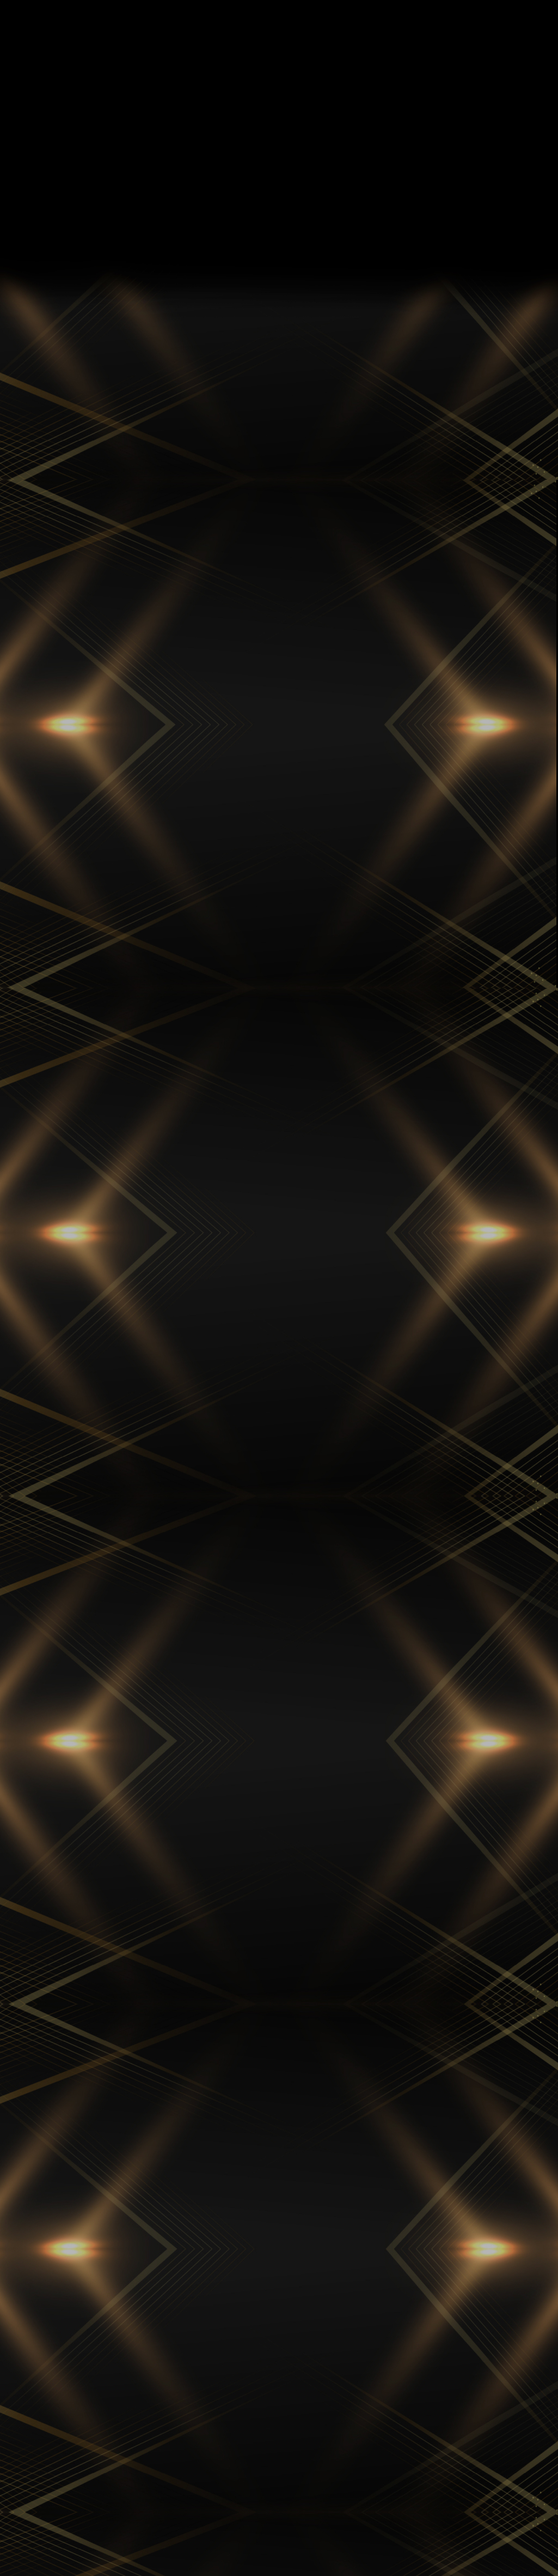
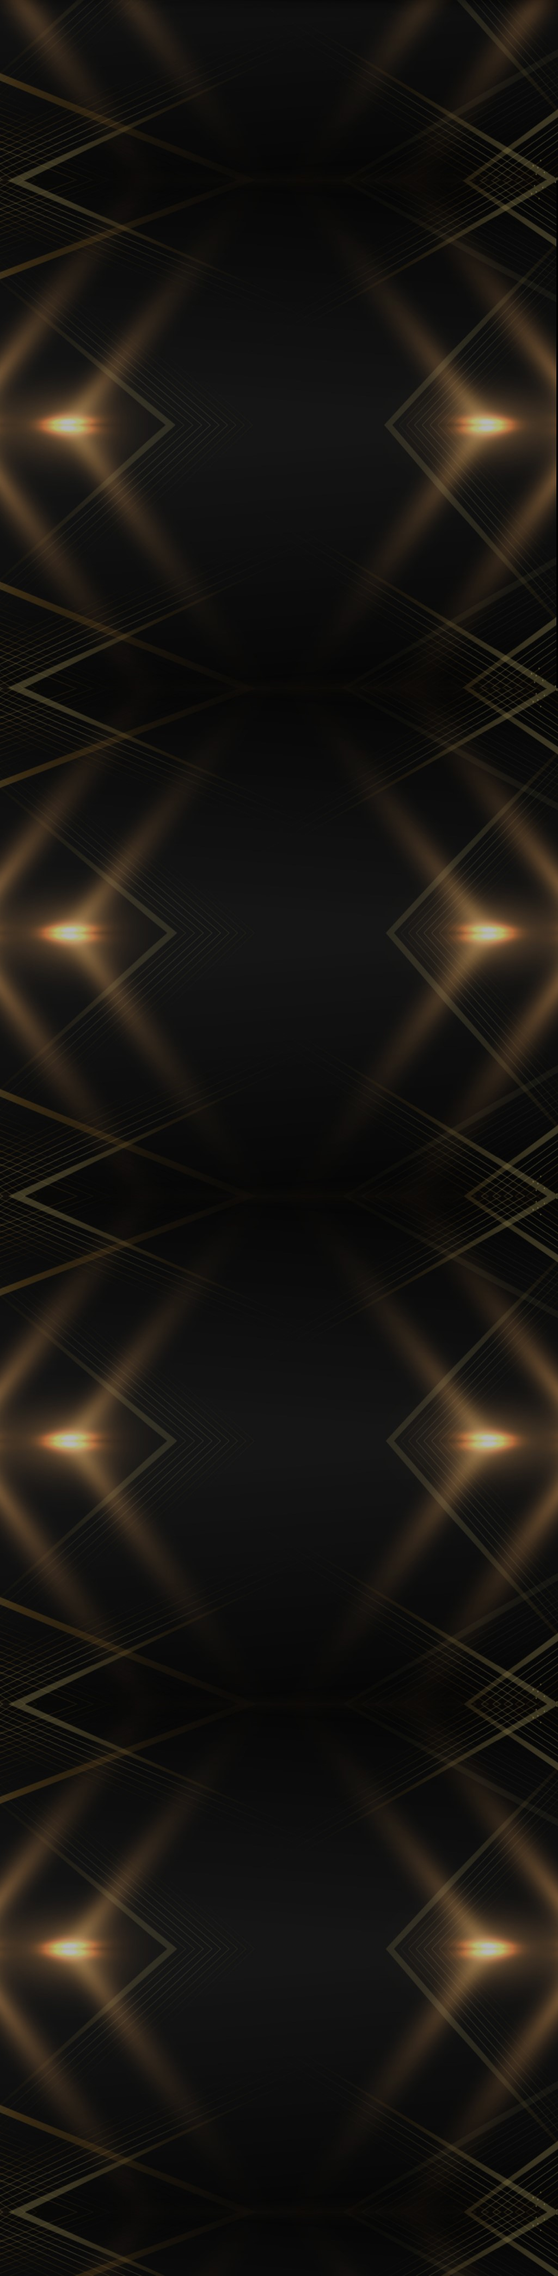
Enhance footer design with semi-transparent background, update event title to 'Mercon 2025', and improve timeline styles for better aesthetics and responsiveness. Update images for visual consistency

Changed region(s): [[0.6556, 0.0, 1.0, 0.9962], [0.0, 0.0, 0.3434, 0.9962], [0.281, 0.6537, 0.3122, 0.6849]]

diff --git a/css/timeline.css b/css/timeline.css
@@ -1,4 +1,4 @@
-/* The actual timeline (the vertical ruler) */
+/* The timeline container */
 .timeline {
   position: relative;
   max-width: 1200px;
@@ -7,120 +7,174 @@
   overflow: hidden;
 }
 
-/* The actual timeline (the vertical ruler) */
+/* The vertical timeline line */
+/* The vertical timeline line */
 .timeline::after {
   content: "";
   position: absolute;
   width: 6px;
-  background-color: white;
+  background: linear-gradient(
+    to bottom,
+    rgba(255, 255, 255, 0) 0%,
+    rgba(255, 255, 255, 0.8) 50%,
+    rgba(255, 255, 255, 0) 100%
+  );
   top: 0;
   bottom: 0;
   left: 50%;
   margin-left: -3px;
+  border-radius: 10px;
+
 }
 
-/* time around content */
+
+/* The individual timeline items */
 .time {
   padding: 10px 40px;
   position: relative;
   background-color: inherit;
   width: 50%;
+  transition: transform 0.3s ease, background-color 0.3s ease;
 }
 
-/* The circles on the timeline */
 .time::after {
   content: "";
   position: absolute;
-  width: 25px;
-  height: 25px;
-  right: -17px;
-  background-color: white;
-  border: 4px solid #ffc700;
+  width: 20px;
+  height: 20px;
+  right: -8px;
+  background: linear-gradient(45deg, #ffc700, #f5f4f3);
   top: 15px;
   border-radius: 50%;
-  z-index: -1;
+  z-index: 1;
+  transition: transform 0.3s ease;
+  box-shadow: 0px 4px 8px rgba(128, 125, 121, 0.8);
 }
 
-/* Place the time to the left */
+/* Remove circle outline */
+.time:hover::after {
+  transform: scale(1.2);
+}
+
+/* Position the left-side items */
 .left {
   left: 0;
 }
 
-/* Place the time to the right */
+/* Position the right-side items */
 .right {
   left: 50%;
 }
 
-/* Add arrows to the left time (pointing right) */
+/* Add arrows to the left items */
 .left::before {
   content: " ";
   height: 0;
   position: absolute;
   top: 22px;
   width: 0;
-  z-index: -1;
+  z-index: 0;
   right: 30px;
   border: medium solid white;
   border-width: 10px 0 10px 10px;
   border-color: transparent transparent transparent white;
 }
 
-/* Add arrows to the right time (pointing left) */
+/* Add arrows to the right items */
 .right::before {
   content: " ";
   height: 0;
   position: absolute;
   top: 22px;
   width: 0;
-  z-index: -1;
+  z-index: 0;
   left: 30px;
   border: medium solid white;
   border-width: 10px 10px 10px 0;
   border-color: transparent white transparent transparent;
 }
 
-/* Fix the circle for times on the right side */
+/* Adjust circle position for the right items */
 .right::after {
-  left: -16px;
+  left: -12px;
 }
 
-/* The actual content */
+/* The content box styling */
+/* The content box styling */
 .content {
-  padding: 20px 30px;
-  background-color: #12050d;
   position: relative;
-  border-radius: 6px;
+  padding: 20px 30px;
+  background: linear-gradient(135deg, rgba(201, 166, 9, 0.63), rgba(0, 0, 0, 0.6));
+  color: white;
+  font-weight: bold;
+  border-radius: 12px;
+  transition: transform 0.3s ease, background-color 0.3s ease;
+  box-shadow: 0 4px 15px rgba(0, 0, 0, 0.4);
+  overflow: hidden;
 }
 
-/* Media queries - Responsive timeline on screens less than 600px wide */
+/* Hover effect for content */
+.content:hover {
+  transform: translateY(-5px);
+}
+
+/* Diagonal hover effect */
+.content::before {
+  content: "";
+  position: absolute;
+  top: 0;
+  left: 0;
+  width: 100%;
+  height: 100%;
+  background: linear-gradient(135deg, rgba(128, 126, 124, 0.63), rgba(0, 0, 0, 0.6));
+  transform: scale(0);
+  transform-origin: top right; /* Start the animation from the top-left corner */
+  transition: transform 0.4s ease-in-out;
+  border-radius: 12px;
+  z-index: 0;
+}
+
+/* Trigger the hover transition */
+.content:hover::before {
+  transform: scale(1);
+}
+
+/* Ensuring the content stays above the hover effect */
+.content h3,
+.content p {
+  position: relative;
+  z-index: 1;
+}
+
+/* Responsive design for screens smaller than 600px */
 @media screen and (max-width: 600px) {
-  /* Place the timelime to the left */
+  /* Align the vertical line */
   .timeline::after {
     left: 31px;
   }
 
-  /* Full-width times */
+  /* Full-width timeline items */
   .time {
     width: 100%;
     padding-left: 70px;
     padding-right: 25px;
   }
 
-  /* Make sure that all arrows are pointing leftwards */
+  /* Ensure all arrows point left */
   .time::before {
     left: 60px;
-    border: medium solid white;
+    border: medium solid rgb(209, 172, 9);
     border-width: 10px 10px 10px 0;
     border-color: transparent white transparent transparent;
   }
 
-  /* Make sure all circles are at the same spot */
+  /* Position circles consistently */
   .left::after,
   .right::after {
     left: 15px;
   }
 
-  /* Make all right times behave like the left ones */
+  /* All items behave like left items */
   .right {
     left: 0%;
   }

diff --git a/important_dates.html b/important_dates.html
@@ -61,18 +61,14 @@
     <link rel="stylesheet" href="./css/style.min.css" />
     <script src="https://code.jquery.com/jquery-1.10.2.js"></script>
     <script src="./scripts/components.js"></script>
-    <title>Mercon 2023</title>
+    <title>Mercon 2025</title>
   </head>
 
   <body>
     <header></header>
 
     <section id="time_line">
-      <style>
-        .faded {
-          color: #a3a3a3;
-        }
-      </style>
+ 
       <div class="timeline">
         <div class="time left">
           <div class="content">
@@ -86,11 +82,7 @@
           <div class="content">
 
             <h3 class="faded" >Paper Submission</h3>          
-              <del><p class="faded">5<sup>th</sup> April 2024</p></del>
-              <h3 class="faded">Extended Deadline</h3>
-             
-              <p class="faded"><del>19<sup>th</sup> April 2024</del> </p>
-              <p class="faded">29<sup>th</sup> April 2024 at 5.30 P.M SL time</p>
+              <p class="faded">5<sup>th</sup> April 2024</p>
 
             
           </div>

diff --git a/footer.html b/footer.html
@@ -1,4 +1,17 @@
-<footer id="footer">
+<footer id="footer" style="position: relative;">
+  <!-- Semi-transparent black box -->
+  <div
+    style="
+      position: absolute;
+      top: 0;
+      left: 0;
+      width: 100%;
+      height: 100%;
+      background-color: rgba(0, 0, 0, 0.85); /* Black with 50% opacity */
+      z-index: -1;
+    "
+  ></div>
+
   <div class="footer-top">
     <div class="container">
       <div>
